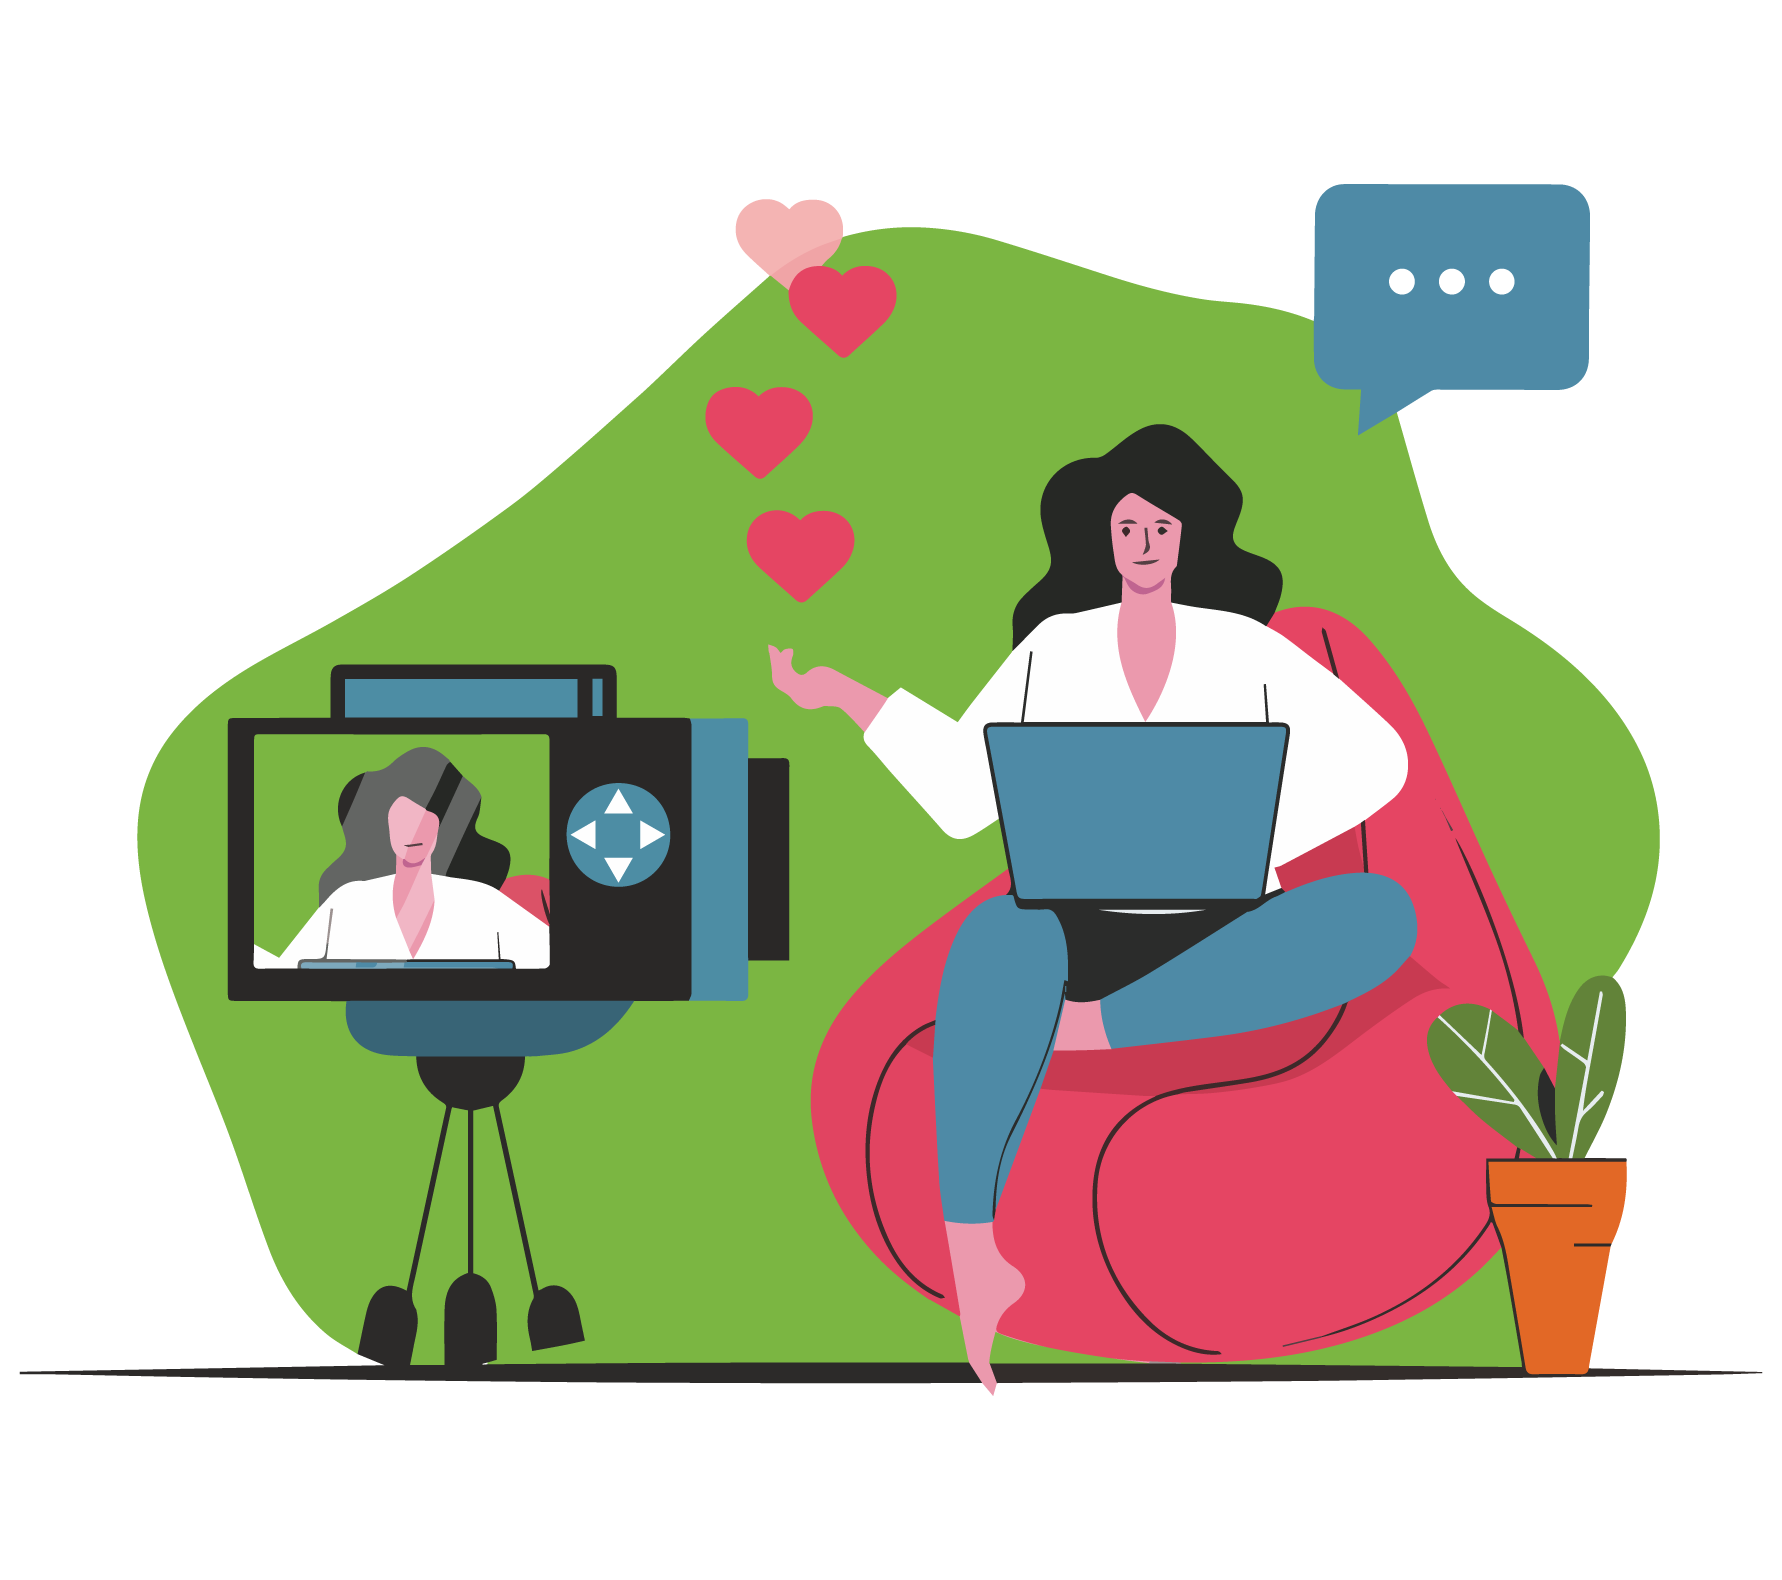
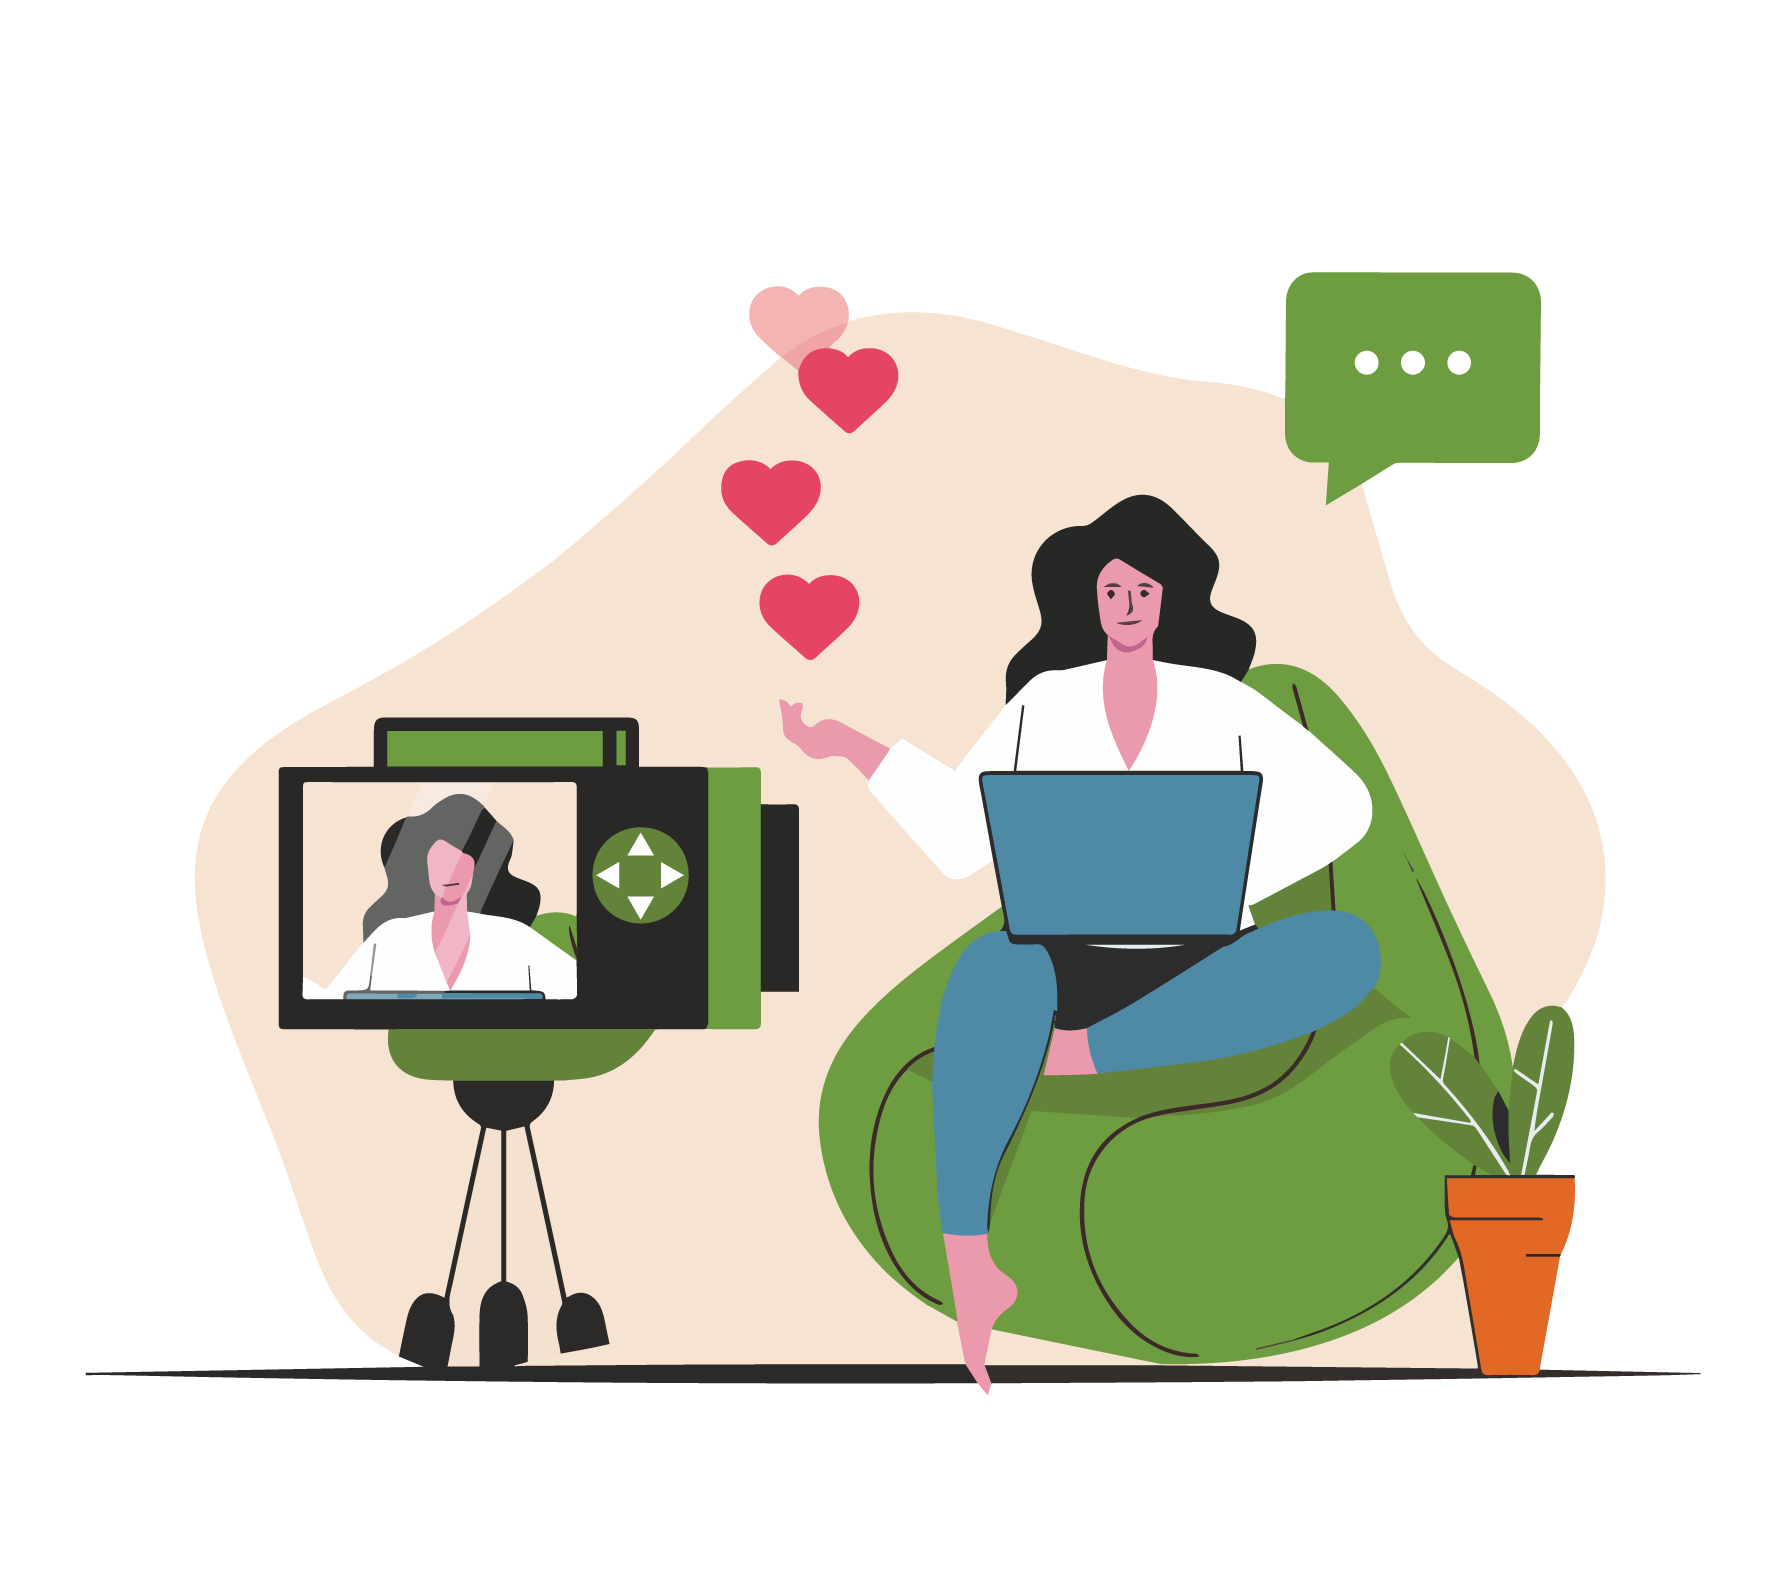
call to actions photo update

diff --git a/components/HowitWorks.js b/components/HowitWorks.js
@@ -59,17 +59,17 @@ const HowItWorksPage = () => {
     },
     {
       title: "Real-Time Progress Tracking", 
-      description: "Watch your project come alive! Our real-time document view lets you track your order's progress, so you're always in the loop.",
+      description: "Watch your project come alive! Our real-time document view lets you track your order, so you're always in the loop.",
       image: "/img/how_it_works/How_It_Work_Real-Time_Progress_Tracking_Icon.png"
     },
     {
       title: "Collaborate on Your Content",
-      description: "Ensure your ebook perfectly matches your vision. Add comments directly to the document for your writer or editor to implement or discuss with you.",
+      description: "Add comments directly to the document for your writer or editor to implement or discuss with you.",
       image: "/img/how_it_works/How_It_Work_Collaborate_on_Your_Content_Icon.png"
     },
     {
       title: "Approve or Revise",
-      description: "You have the final say. Approve submissions when you're thrilled with the work, or request a revision if anything isn't aligned with your initial requirements.",
+      description: "Approve submissions when you're thrilled with the work, or request a revision if anything isn't aligned with your initial requirements.",
       image: "/img/how_it_works/How_It_Work_Approve_or_Revise_Icon.png"
     },
     {

diff --git a/components/CallToAction.js b/components/CallToAction.js
@@ -42,7 +42,7 @@ export const CallToAction1 = () => {
                 </Link>
               </div>
               <div className="mil-illustration-absolute mil-type-2 mil-up">
-                <img src="/img/home-2/call_to_action.png" alt="illustration" />
+                <img src="/img/home-2/Buy_with_Confidence,_Guaranteed.png" alt="illustration" />
               </div>
             </div>
           </div>
